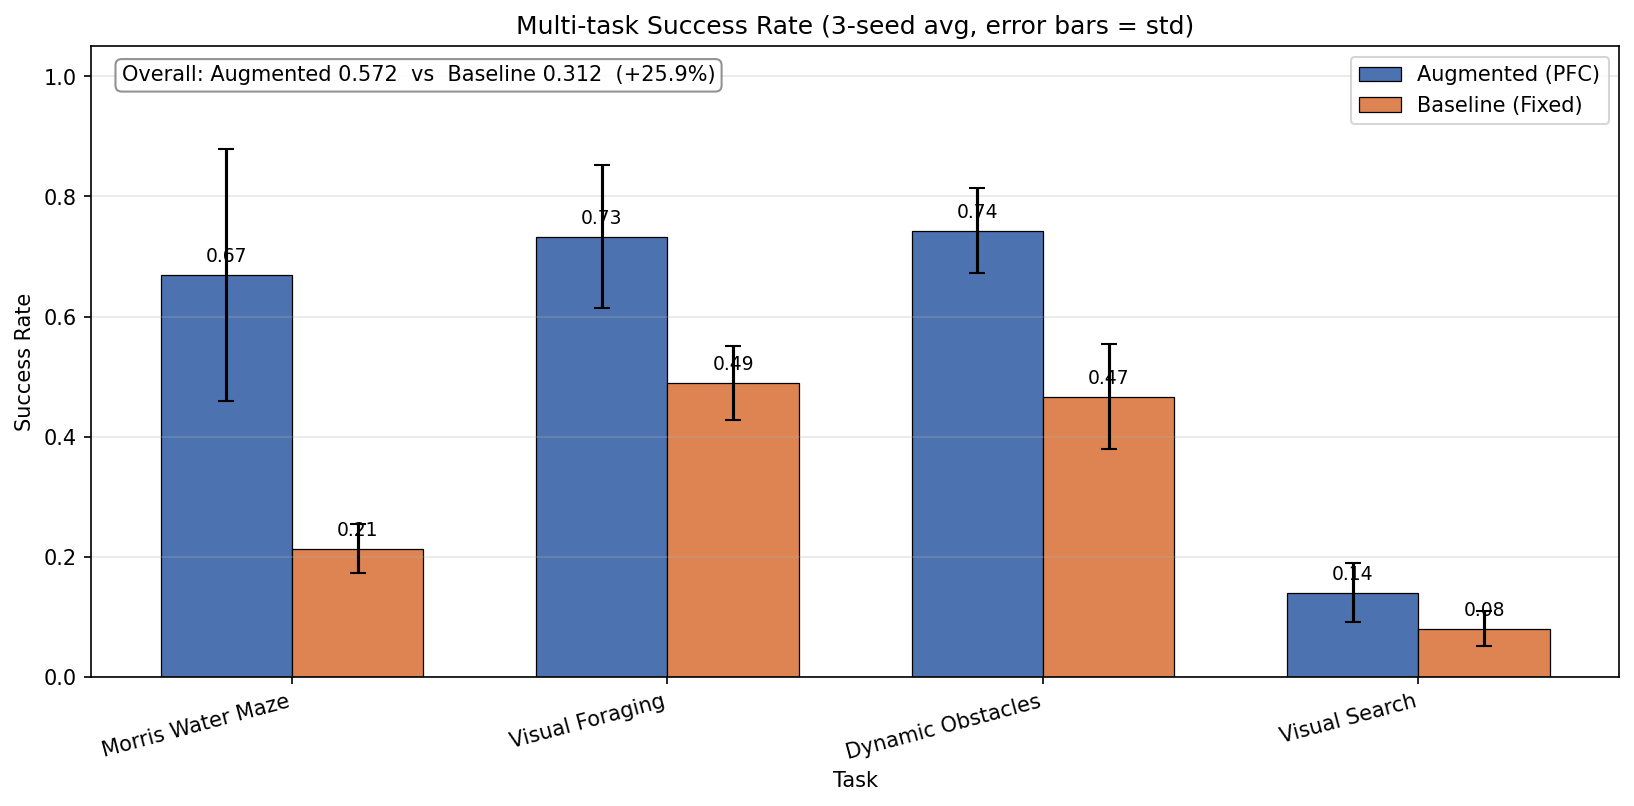
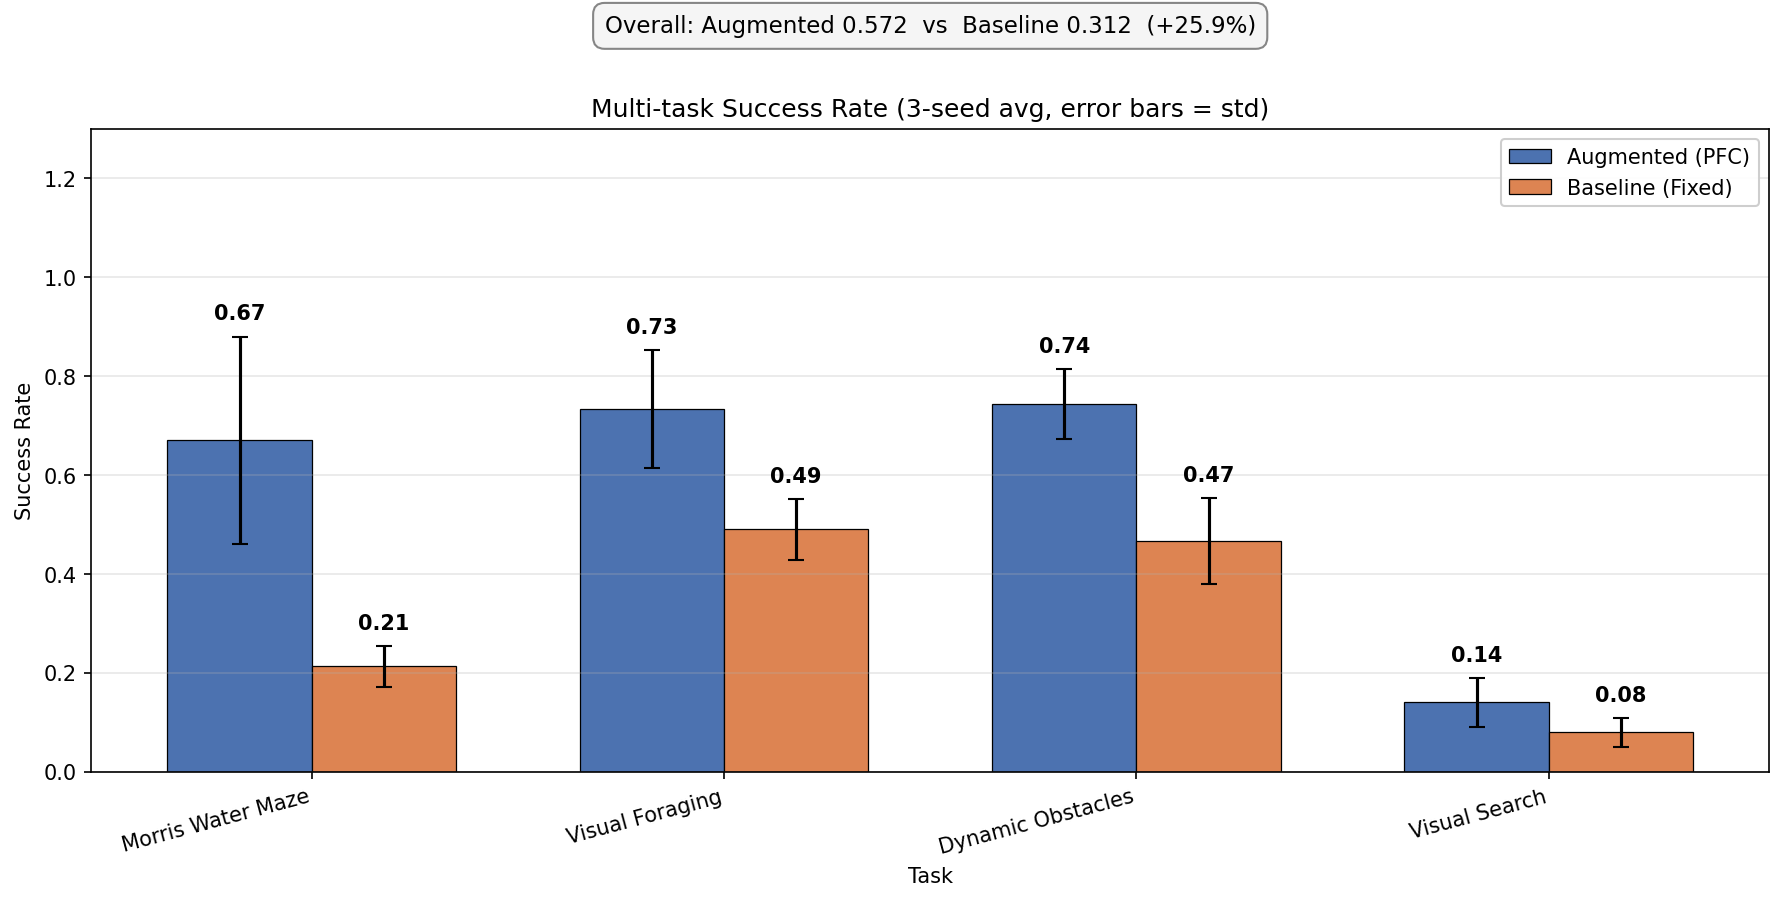
Add pixelated Morris Water Maze poster graphic; fix label overlap
- New make_poster_image.py renders a stylized 20x20 pixel-art view of the
  Morris Water Maze (pool, hidden platform, four landmark cues, agent +
  trail) for use on a conference poster — output saved as
  results/poster_morris_water_maze.png.
- final_comparison.png: lifted y-axis headroom and moved value labels above
  the error-bar caps so the numbers no longer collide with the bars; the
  overall-summary box is moved above the plot.

diff --git a/make_poster_image.py b/make_poster_image.py
@@ -1,0 +1,133 @@
+"""Generate a stylized pixelated Morris Water Maze image for a conference poster.
+
+Renders a 20x20 grid scene matching the environment's visual conventions
+(blue circular pool, four colored landmark cues, hidden gold platform,
+green agent), upscaled with nearest-neighbor for a crisp pixel-art look.
+"""
+import numpy as np
+import matplotlib.pyplot as plt
+from matplotlib.patches import Rectangle
+
+GRID = 20
+PIXEL_SCALE = 40
+
+BG = np.array([0.06, 0.06, 0.10])
+WATER = np.array([0.15, 0.25, 0.60])
+WATER_HI = np.array([0.22, 0.36, 0.78])
+WATER_LO = np.array([0.10, 0.18, 0.45])
+PLATFORM = np.array([1.00, 0.85, 0.00])
+PLATFORM_GLOW = np.array([1.00, 0.95, 0.45])
+AGENT = np.array([0.10, 0.90, 0.30])
+AGENT_OUT = np.array([0.00, 0.50, 0.10])
+LANDMARKS = {
+    "N": np.array([0.95, 0.25, 0.25]),
+    "S": np.array([0.30, 0.65, 1.00]),
+    "E": np.array([0.95, 0.55, 0.10]),
+    "W": np.array([0.70, 0.35, 0.95]),
+}
+
+
+def in_pool(x, y, cx, cy, r):
+    return (x - cx) ** 2 + (y - cy) ** 2 <= r ** 2
+
+
+def render():
+    img = np.tile(BG, (GRID, GRID, 1))
+    cx, cy = (GRID - 1) / 2, (GRID - 1) / 2
+    radius = 8.5
+
+    rng = np.random.default_rng(7)
+    for y in range(GRID):
+        for x in range(GRID):
+            if in_pool(x, y, cx, cy, radius):
+                t = rng.random()
+                shimmer = WATER + (WATER_HI - WATER) * (t ** 3) * 0.6
+                ripple = 0.5 + 0.5 * np.sin((x + y) * 0.9 + y * 0.4)
+                img[y, x] = WATER_LO + (shimmer - WATER_LO) * (0.55 + 0.45 * ripple)
+
+    plat_x, plat_y = 13, 7
+    for dy in range(-1, 2):
+        for dx in range(-1, 2):
+            xx, yy = plat_x + dx, plat_y + dy
+            if 0 <= xx < GRID and 0 <= yy < GRID and in_pool(xx, yy, cx, cy, radius):
+                if dx == 0 and dy == 0:
+                    img[yy, xx] = PLATFORM
+                elif abs(dx) + abs(dy) == 1:
+                    img[yy, xx] = PLATFORM * 0.75 + img[yy, xx] * 0.25
+                else:
+                    img[yy, xx] = PLATFORM_GLOW * 0.35 + img[yy, xx] * 0.65
+
+    landmark_pos = {
+        "N": (10, 1),
+        "S": (10, 18),
+        "E": (18, 10),
+        "W": (1, 10),
+    }
+    for k, (lx, ly) in landmark_pos.items():
+        for dy in range(-1, 2):
+            for dx in range(-1, 2):
+                xx, yy = lx + dx, ly + dy
+                if 0 <= xx < GRID and 0 <= yy < GRID:
+                    if dx == 0 and dy == 0:
+                        img[yy, xx] = LANDMARKS[k]
+                    elif abs(dx) + abs(dy) == 1:
+                        img[yy, xx] = LANDMARKS[k] * 0.6 + img[yy, xx] * 0.4
+
+    agent_x, agent_y = 5, 14
+    img[agent_y, agent_x] = AGENT
+    for dx, dy in [(-1, 0), (1, 0), (0, -1), (0, 1)]:
+        xx, yy = agent_x + dx, agent_y + dy
+        if 0 <= xx < GRID and 0 <= yy < GRID:
+            img[yy, xx] = AGENT_OUT * 0.55 + img[yy, xx] * 0.45
+
+    trail = [(5, 14), (6, 13), (6, 12), (7, 12), (8, 11), (9, 11), (10, 10)]
+    for i, (tx, ty) in enumerate(trail[:-1]):
+        alpha = 0.18 + 0.05 * i
+        img[ty, tx] = AGENT * alpha + img[ty, tx] * (1 - alpha)
+
+    return img
+
+
+def save_poster_image(out_path):
+    img = render()
+    upscaled = np.kron(img, np.ones((PIXEL_SCALE, PIXEL_SCALE, 1)))
+
+    fig, ax = plt.subplots(figsize=(10, 10), facecolor="#0a0a12")
+    ax.imshow(upscaled, interpolation="nearest")
+    ax.set_xticks([])
+    ax.set_yticks([])
+    for spine in ax.spines.values():
+        spine.set_edgecolor("#FFD700")
+        spine.set_linewidth(3)
+
+    ax.set_title("Morris Water Maze — 20x20 Grid-World Task",
+                 color="#FFD700", fontsize=20, fontweight="bold", pad=18,
+                 family="monospace")
+
+    legend_items = [
+        ("Agent", AGENT),
+        ("Hidden Platform", PLATFORM),
+        ("Pool (water)", WATER),
+        ("Landmark Cues", np.array([0.85, 0.45, 0.55])),
+    ]
+    for i, (label, color) in enumerate(legend_items):
+        ax.add_patch(Rectangle((20, 20 + i * 60), 40, 40,
+                               facecolor=color, edgecolor="#FFD700", linewidth=1.5))
+        ax.text(75, 50 + i * 60, label, color="white", fontsize=14,
+                family="monospace", va="center")
+
+    ax.text(upscaled.shape[1] - 20, upscaled.shape[0] - 20,
+            "Augmented (PFC)  vs  Baseline\n+45.7% success",
+            color="#FFD700", fontsize=14, fontweight="bold",
+            family="monospace", ha="right", va="bottom",
+            bbox=dict(boxstyle="round,pad=0.6", facecolor="#0a0a12",
+                      edgecolor="#FFD700", linewidth=1.5))
+
+    plt.tight_layout()
+    plt.savefig(out_path, dpi=200, bbox_inches="tight", facecolor="#0a0a12")
+    plt.close()
+    print(f"Saved {out_path}")
+
+
+if __name__ == "__main__":
+    save_poster_image("results/poster_morris_water_maze.png")

diff --git a/regenerate_plots.py b/regenerate_plots.py
@@ -40,7 +40,7 @@ def plot_final_comparison(reports):
 
     x = np.arange(len(TASKS))
     width = 0.35
-    fig, ax = plt.subplots(figsize=(11, 5.5))
+    fig, ax = plt.subplots(figsize=(12, 6.2))
     b1 = ax.bar(x - width / 2, aug_mean, width, yerr=aug_std, capsize=4,
                 label="Augmented (PFC)", color=AUG_COLOR, edgecolor="black", linewidth=0.6)
     b2 = ax.bar(x + width / 2, base_mean, width, yerr=base_std, capsize=4,
@@ -51,22 +51,25 @@ def plot_final_comparison(reports):
     ax.set_title("Multi-task Success Rate (3-seed avg, error bars = std)")
     ax.set_xticks(x)
     ax.set_xticklabels(TASK_LABELS, rotation=15, ha="right")
-    ax.set_ylim(0, 1.05)
-    ax.legend(loc="upper right")
+    ax.set_ylim(0, 1.30)
+    ax.legend(loc="upper right", framealpha=0.95)
     ax.grid(True, axis="y", alpha=0.3)
 
-    for bars, means in [(b1, aug_mean), (b2, base_mean)]:
-        for bar, m in zip(bars, means):
-            ax.annotate(f"{m:.2f}", xy=(bar.get_x() + bar.get_width() / 2, m),
-                        xytext=(0, 6), textcoords="offset points", ha="center", fontsize=9)
+    for bars, means, stds in [(b1, aug_mean, aug_std), (b2, base_mean, base_std)]:
+        for bar, m, s in zip(bars, means, stds):
+            ax.annotate(f"{m:.2f}",
+                        xy=(bar.get_x() + bar.get_width() / 2, m + s),
+                        xytext=(0, 8), textcoords="offset points",
+                        ha="center", fontsize=10, fontweight="bold")
 
     overall_aug = aug_mean.mean()
     overall_base = base_mean.mean()
-    ax.text(0.02, 0.97,
+    ax.text(0.5, 1.16,
             f"Overall: Augmented {overall_aug:.3f}  vs  Baseline {overall_base:.3f}  "
             f"(+{(overall_aug - overall_base) * 100:.1f}%)",
-            transform=ax.transAxes, va="top", fontsize=10,
-            bbox=dict(boxstyle="round", facecolor="white", alpha=0.85, edgecolor="gray"))
+            transform=ax.transAxes, ha="center", va="center", fontsize=11,
+            bbox=dict(boxstyle="round,pad=0.5", facecolor="#f5f5f5",
+                      alpha=0.95, edgecolor="gray"))
 
     plt.tight_layout()
     out = os.path.join(OUT_DIR, "final_comparison.png")
